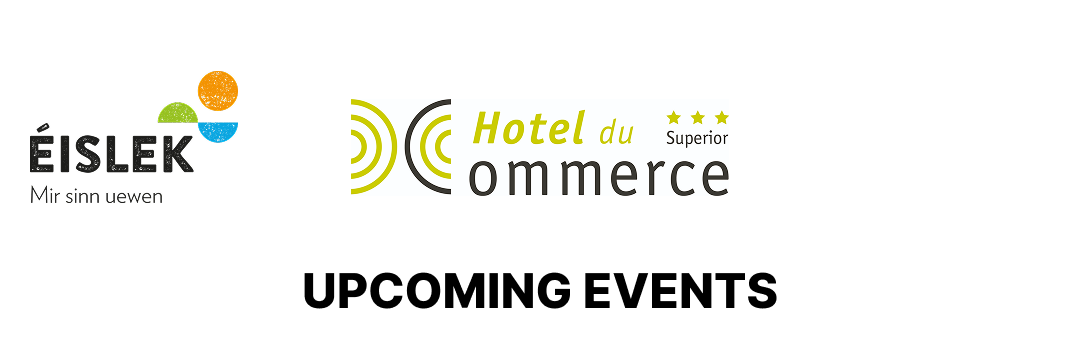
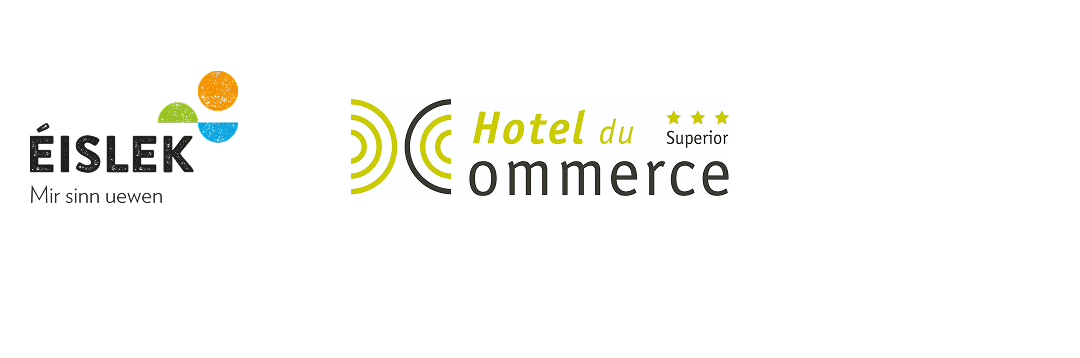
header

Changed region(s): [[0.275, 0.7374, 0.7333, 0.8603]]

diff --git a/app.vue b/app.vue
@@ -396,7 +396,7 @@ const showRaw = ref(query.raw === 'true');
           <div class="mx-auto relative">
             <img src="/header.png" alt="Mir sin uewen" />
             <img v-if="qrCodeUrl" :src="qrCodeUrl" alt="Event QR Code" class="absolute top-8 right-4 w-64 h-64" />
-            <div class="absolute top-8 right-4 w-64 h-64" >{{ currentEvent.upcomingEvents }}</div>
+            <div class="absolute text-black text-6xl font-bold z-10 top-74 left-1/2 -translate-x-1/2 -translate-y-1/2  w-full text-center" >{{ currentEvent.upcomingEvents }}</div>
           </div>
           <div class="mx-auto mt-10 px-10 h-[500px]">
             <img v-if="currentEvent.absoluteImageUrl" :src="currentEvent.absoluteImageUrl" alt="Event image"
